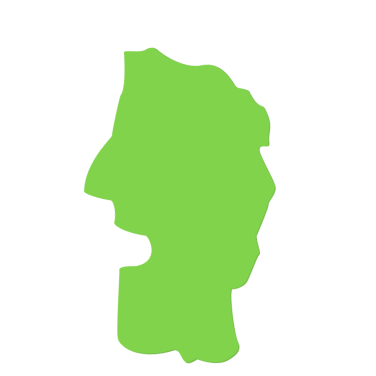
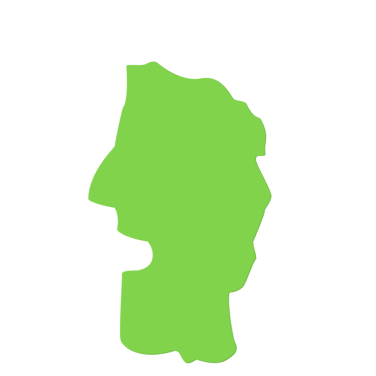
Add files via upload

diff --git a/data_manzai.js b/data_manzai.js
@@ -1357,6 +1357,94 @@ const manzaiData = {
         ]
     },
 
+    // -------- 鳥取 --------------------------------------------------------------------------------------------------------
+    'tottori': {
+        scenario: [
+            { type: 'dialogue', speaker: '鳥取', text: 'はいどーもー！<br>鳥取県と〜' },
+            { type: 'dialogue', speaker: '山形', text: '山形県で〜す' },
+            { type: 'dialogue', speaker: '山形', text: '今日は県の形だけでも<br>覚えて帰ってくださ〜い' },
+            { type: 'dialogue', speaker: '鳥取', text: '鳥取といやあ<br>「鳥取砂丘」だら！' },
+            { type: 'dialogue', speaker: '鳥取', text: '日本最大級の砂の丘！<br>見渡す限り、砂、砂、砂！' },
+            { type: 'dialogue', speaker: '鳥取', text: '圧倒的なスケール感が<br>鳥取の自慢だけぇな' },
+            { type: 'dialogue', speaker: '山形', text: 'スケールが大きいのはいいね' },
+            { type: 'dialogue', speaker: '山形', text: '山形も、イベントのスケールは<br>大きくするようにしてるよ' },
+            { type: 'dialogue', speaker: '鳥取', text: 'ほう、山形は何がごっついんだ？<br>大仏とかか？' },
+            { type: 'dialogue', speaker: '山形', text: '「人間将棋」<br>っていうイベントがあって' },
+            { type: 'dialogue', speaker: '山形', text: '巨大な将棋盤の上で<br>人間が駒となって将棋をするんだ' },
+            { type: 'dialogue', speaker: '鳥取', text: '・・・うん？' },
+            { type: 'dialogue', speaker: '山形', text: 'あと<br>「日本一の芋煮会フェスティバル」' },
+            {
+                type: 'prompt', speaker: '山形', text: '直径6.5mの巨大鍋で<br>重機を使って芋煮を作るよ',
+                promptText: '人間が駒になる将棋と<br>巨大鍋とバックホーを使う芋煮会だよ',
+                tsukkomi: [
+                    { text: "ごっつうすりゃあええ<br>と思よーる！？", 
+                        point: 3, type: ['t', 'p', 'v'], 
+                        reaction: '鳥取「小学生男子の発想かよ！<br>繊細さのかけらもないな！」' },
+                    { text: "重機て！<br>工事現場か！", 
+                        point: 1, type: ['t', 'p'], 
+                        reaction: '鳥取「保健所の許可<br>どがなっとるんだよ・・・」' },
+                    { text: "砂丘でも<br>やりたいな", 
+                        point: 0, type: ['v'], 
+                        reaction: '鳥取「砂まみれの芋煮に<br>なりそうだけど」' }
+                ]
+            },
+            { type: 'dialogue', speaker: '鳥取', text: '大きさで勝負するのもええけど<br>鳥取には「文化」もあるけぇ' },
+            { type: 'dialogue', speaker: '鳥取', text: 'なんと言っても<br>「まんが王国とっとり」だ！' },
+            { type: 'dialogue', speaker: '鳥取', text: '水木しげるロードには<br>妖怪のブロンズ像がようけあるしな' },
+            { type: 'dialogue', speaker: '鳥取', text: '不思議な妖怪たちに会えるのが<br>魅力なんだ' },
+            { type: 'dialogue', speaker: '山形', text: '不思議な生き物かぁ<br>山形にもいるよ' },
+            { type: 'dialogue', speaker: '鳥取', text: 'え？<br>山形にも妖怪がおるの？' },
+            { type: 'dialogue', speaker: '山形', text: '「ケサランパサラン」だよ' },
+            { type: 'dialogue', speaker: '鳥取', text: 'ああ、あの白い毛玉みたいな！<br>何かわからんやつだな？' },
+            { type: 'dialogue', speaker: '山形', text: 'そう、正体不明の<br>未確認生物なんだけど' },
+            {
+                type: 'prompt', speaker: '山形', text: '水族館で<br>普通に展示されてるんだ',
+                tsukkomi: [
+                    
+                    { text: "なんで水族館に<br>展示しとるんだよ！", 
+                        point: 1, type: ['p', 'v'], 
+                        reaction: '鳥取「海の生き物じゃないだら！」' },
+                    { text: "鳥取にも<br>呼びたいな", 
+                        point: 0, type: ['v'], 
+                        reaction: '鳥取「水木しげるロードの<br>仲間に入れるか」' },
+                    { text: "未確認生物を<br>展示すんな！", 
+                        point: 3, type: ['t', 'p', 'v'], 
+                        reaction: '鳥取「展示したら<br>未確認じゃなあなるだら！」' }
+                ]
+            },
+            { type: 'dialogue', speaker: '鳥取', text: '未確認生物を展示するとは<br>山形は奥が深いな・・・' },
+            { type: 'dialogue', speaker: '鳥取', text: 'でも<br>名前の美しさなら負けんよ' },
+            { type: 'dialogue', speaker: '鳥取', text: '鳥取は夜空が綺麗すぎて<br>「<ruby>星取<rt>ほしとり</rt></ruby>県」って名乗ってるでぇ' },
+            { type: 'dialogue', speaker: '鳥取', text: 'ロマンチックだら？<br>このネーミングセンス' },
+            { type: 'dialogue', speaker: '山形', text: 'おー、改名したんだ' },
+            { type: 'dialogue', speaker: '山形', text: '山形も、愛するものをアピールするために<br>新しい名前を作ったんだ' },
+            { type: 'dialogue', speaker: '鳥取', text: 'へぇ、山形は何県になったんだ？<br>「さくらんぼ県」とかか？' },
+            { type: 'dialogue', speaker: '山形', text: '山形県民はラーメン大好きで<br>ラーメン消費額日本一だからさ' },
+            { type: 'dialogue', speaker: '山形', text: '山形県改め・・・' },
+            {
+                type: 'prompt', speaker: '山形', text: '「ラーメン県そば王国やまがた」だよ',
+                tsukkomi: [
+                    { text: "県の中に<br>国作られんで！", 
+                        point: 3, type: ['t', 'p', 'v'], 
+                        reaction: '鳥取「なんで県の中に王国があるんだよ！<br>行政区分がめちゃくちゃすぎる！」' },
+                    { text: "星取県のほうが<br>センスあるな", 
+                        point: 0, type: ['v'], 
+                        reaction: '鳥取「山形はちいと<br>胃もたれしそうな名前だわ」' },
+                    { text: "詰め込みすぎ<br>だら！", 
+                        point: 1, type: ['t', 'p'], 
+                        reaction: '鳥取「ラーメンかそばか<br>どっちかに絞れなんだのかよ！」' }
+                ]
+            },
+            { type: 'dialogue', speaker: '山形', text: 'どう？<br>山形のこと、だいたいわかった？' },
+            { type: 'dialogue', speaker: '鳥取', text: 'う〜ん<br>とりあえず・・・' },
+            { type: 'dialogue', speaker: '鳥取', text: 'ツッコミどころが多いってことは<br>ようわかった' },
+            { type: 'dialogue', speaker: '山形', text: 'それが山形の魅力だ！' },
+            { type: 'dialogue', speaker: '鳥取', text: '・・・・・・' },
+            { type: 'dialogue', speaker: '鳥取', text: 'それでええんか！' },
+            { type: 'ending', speaker: 'both', text: 'どうも<br>ありがとうございました〜！' },
+        ]
+    },
+
     // -------- 山口 ---------------------------------------------------------------------------------------------------------
     'yamaguchi': {
         scenario: [
@@ -1725,14 +1813,14 @@ const manzaiData = {
             { type: 'dialogue', speaker: '長崎', text: 'はいどうも〜！<br>長崎県と〜' },
             { type: 'dialogue', speaker: '山形', text: '山形県で〜す' },
             { type: 'dialogue', speaker: '山形', text: '今日は県の形だけでも<br>覚えて帰ってくださ〜い' },
-            { type: 'dialogue', speaker: '長崎', text: '長崎といえば<br>やっぱ「ちゃんぽん」じゃろ！' },
+            { type: 'dialogue', speaker: '長崎', text: '長崎といえば<br>やっぱ「ちゃんぽん」やろ！' },
             { type: 'dialogue', speaker: '長崎', text: '豚肉、魚介、野菜！<br>いろんな具材ば混ぜ合わせるのが長崎流！' },
             { type: 'dialogue', speaker: '長崎', text: '異文化が混ざり合う<br>長崎らしいグルメやろ？' },
             { type: 'dialogue', speaker: '山形', text: '麺料理かぁ、いいよねぇ' },
             { type: 'dialogue', speaker: '山形', text: '山形もラーメン消費額日本一になるくらい<br>麺が大好きなんだ' },
             { type: 'dialogue', speaker: '長崎', text: 'ほう！日本一か！<br>そりゃ相当好きなんやなあ' },
             { type: 'dialogue', speaker: '山形', text: 'だからその愛をアピールするために<br>新しい名前を作ったんだ' },
-            { type: 'dialogue', speaker: '長崎', text: '新しか名前？<br>「ラーメン県」とかそがんの？' },
+            { type: 'dialogue', speaker: '長崎', text: '新しか名前？<br>「ラーメン県」とかそがんと？' },
             { type: 'dialogue', speaker: '山形', text: '山形県改め・・・' },
             {
                 type: 'prompt', speaker: '山形', text: '「ラーメン県そば王国やまがた」だよ',
@@ -1762,9 +1850,9 @@ const manzaiData = {
             {
                 type: 'prompt', speaker: '山形', text: '空気がご神体の<br>世界に一つだけの神社だよ',
                 tsukkomi: [
-                    { text: "感謝の仕方<br>独特すぎるじゃろ！", 
+                    { text: "感謝の仕方<br>独特すぎるやろ！", 
                         point: 3, type: ['t', 'p', 'v'], 
-                        reaction: '長崎「空気がありがたかとはわかるばってん！<br>信心深すぎるじゃろ！」' },
+                        reaction: '長崎「空気がありがたかとはわかるばってん！<br>信心深すぎるやろ！」' },
                     { text: "どがんして<br>拝むっさ！", 
                         point: 1, type: ['p', 'v'], 
                         reaction: '長崎「深呼吸して終わりやなかよね？」' },
@@ -1787,7 +1875,7 @@ const manzaiData = {
                     { text: "ちゃんぽんも<br>頼める？", 
                         point: 0, type: ['v'], 
                         reaction: '長崎「出前なら<br>メニューも豊富じゃろうしね」' },
-                    { text: "ラーメン<br>好きすぎじゃろ！", 
+                    { text: "ラーメン<br>好きすぎやろ！", 
                         point: 3, type: ['t', 'p', 'v'], 
                         reaction: '長崎「ラーメンが一番のご馳走と！？<br>ブレんねぇ〜！！」' },
                     { text: "手料理じゃ<br>なかとかよ！", 

diff --git a/index.html b/index.html
@@ -118,7 +118,7 @@
                     </optgroup>
 
                     <optgroup label="中国">
-                        <option value="tottori" disabled>鳥取県 (準備中)</option>
+                        <option value="tottori">鳥取県</option>
                         <option value="shimane" disabled>島根県 (準備中)</option>
                         <option value="okayama" disabled>岡山県 (準備中)</option>
                         <option value="hiroshima" disabled>広島県 (準備中)</option>

diff --git a/style.css b/style.css
@@ -461,7 +461,7 @@ width: 100%; height: auto; object-fit: contain; display: block;
 #selected-pref-head {
 position: absolute;
 left: -4.5%;
-bottom: 72%;
+bottom: 73%;
 width: 55%;
 height: auto;
 z-index: 10;
